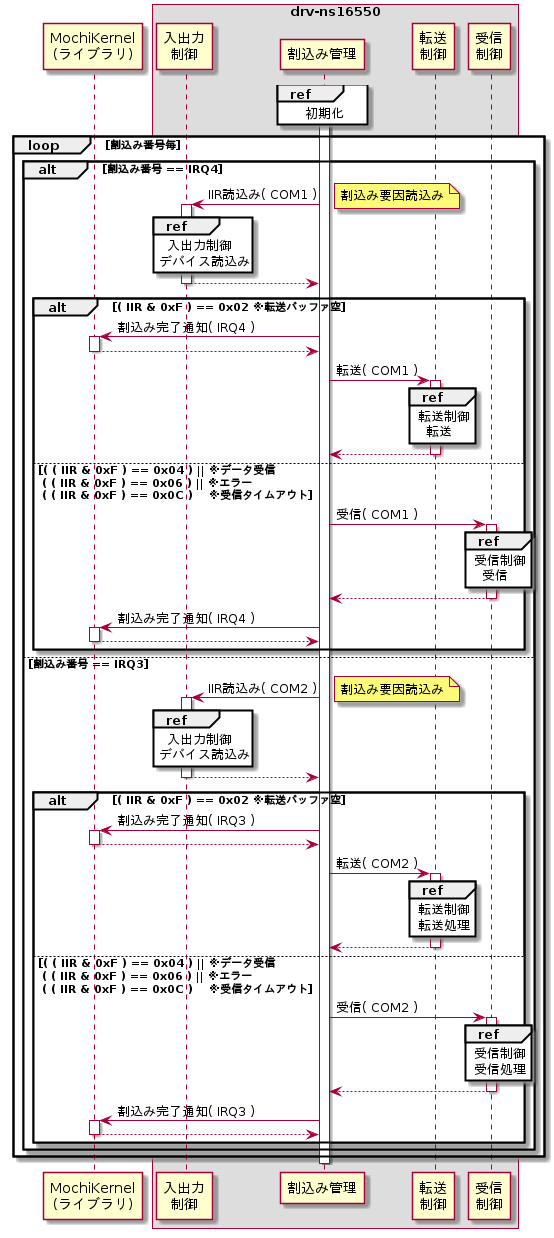
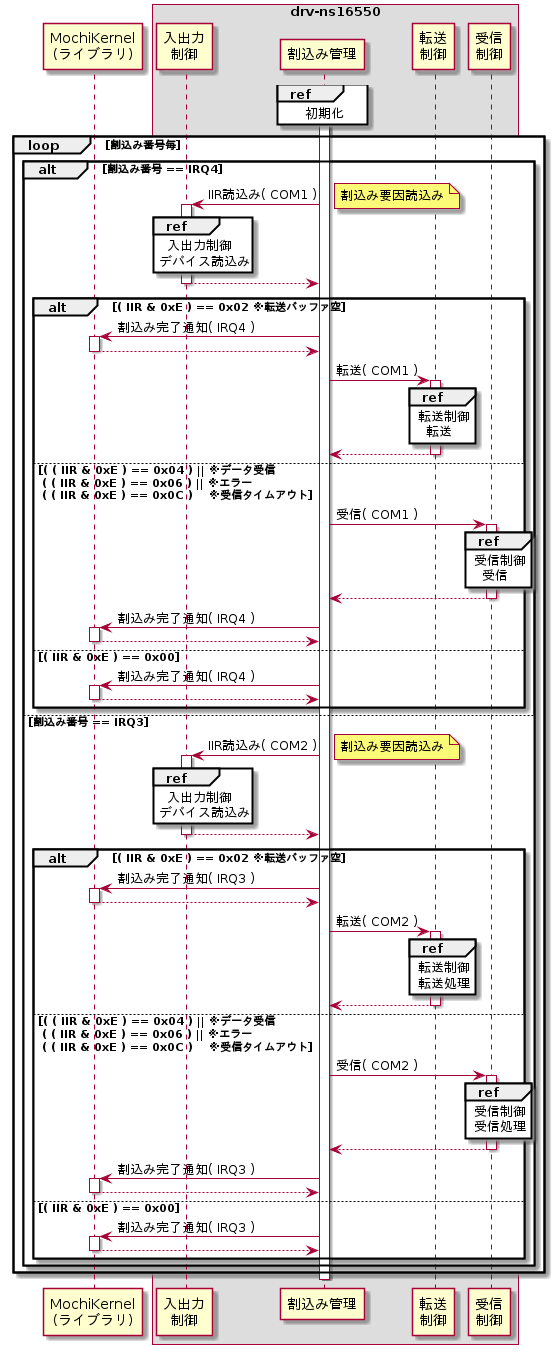
保留割込み無し時の割込み完了通知漏れ修正

diff --git a/src/Intmng.c b/src/Intmng.c
@@ -1,7 +1,7 @@
 /******************************************************************************/
 /*                                                                            */
 /* src/Intmng.c                                                               */
-/*                                                                 2020/07/18 */
+/*                                                                 2020/07/25 */
 /* Copyright (C) 2020 Mochi.                                                  */
 /*                                                                            */
 /******************************************************************************/
@@ -188,6 +188,12 @@ static void ProcInterrupt( NS16550ComNo_t comNo,
                            uint8_t        irqNo  )
 {
     uint8_t iir;    /* 割込み要因レジスタ値 */
+    MkErr_t errMk;  /* カーネルエラー要因   */
+    MkRet_t retMk;  /* カーネル戻り値       */
+
+    /* 初期化 */
+    errMk = MK_ERR_NONE;
+    retMk = MK_RET_FAILURE;
 
     /* 割込み要因読込み */
     iir = IoctrlInIIR( comNo );
@@ -216,6 +222,21 @@ static void ProcInterrupt( NS16550ComNo_t comNo,
             /* 不明 */
 
             DEBUG_LOG_ERR( "Invalid IIR: %X", iir & NS16550_IIR_ID );
+
+            /* 割込み完了通知 */
+            retMk = LibMkIntComplete( irqNo, &errMk );
+
+            /* 通知結果判定 */
+            if ( retMk != MK_RET_SUCCESS ) {
+                /* 失敗 */
+
+                DEBUG_LOG_ERR(
+                    "LibMkIntComplete(): ret=%X, err=%X",
+                    retMk,
+                    errMk
+                );
+            }
+
             break;
     }
 
